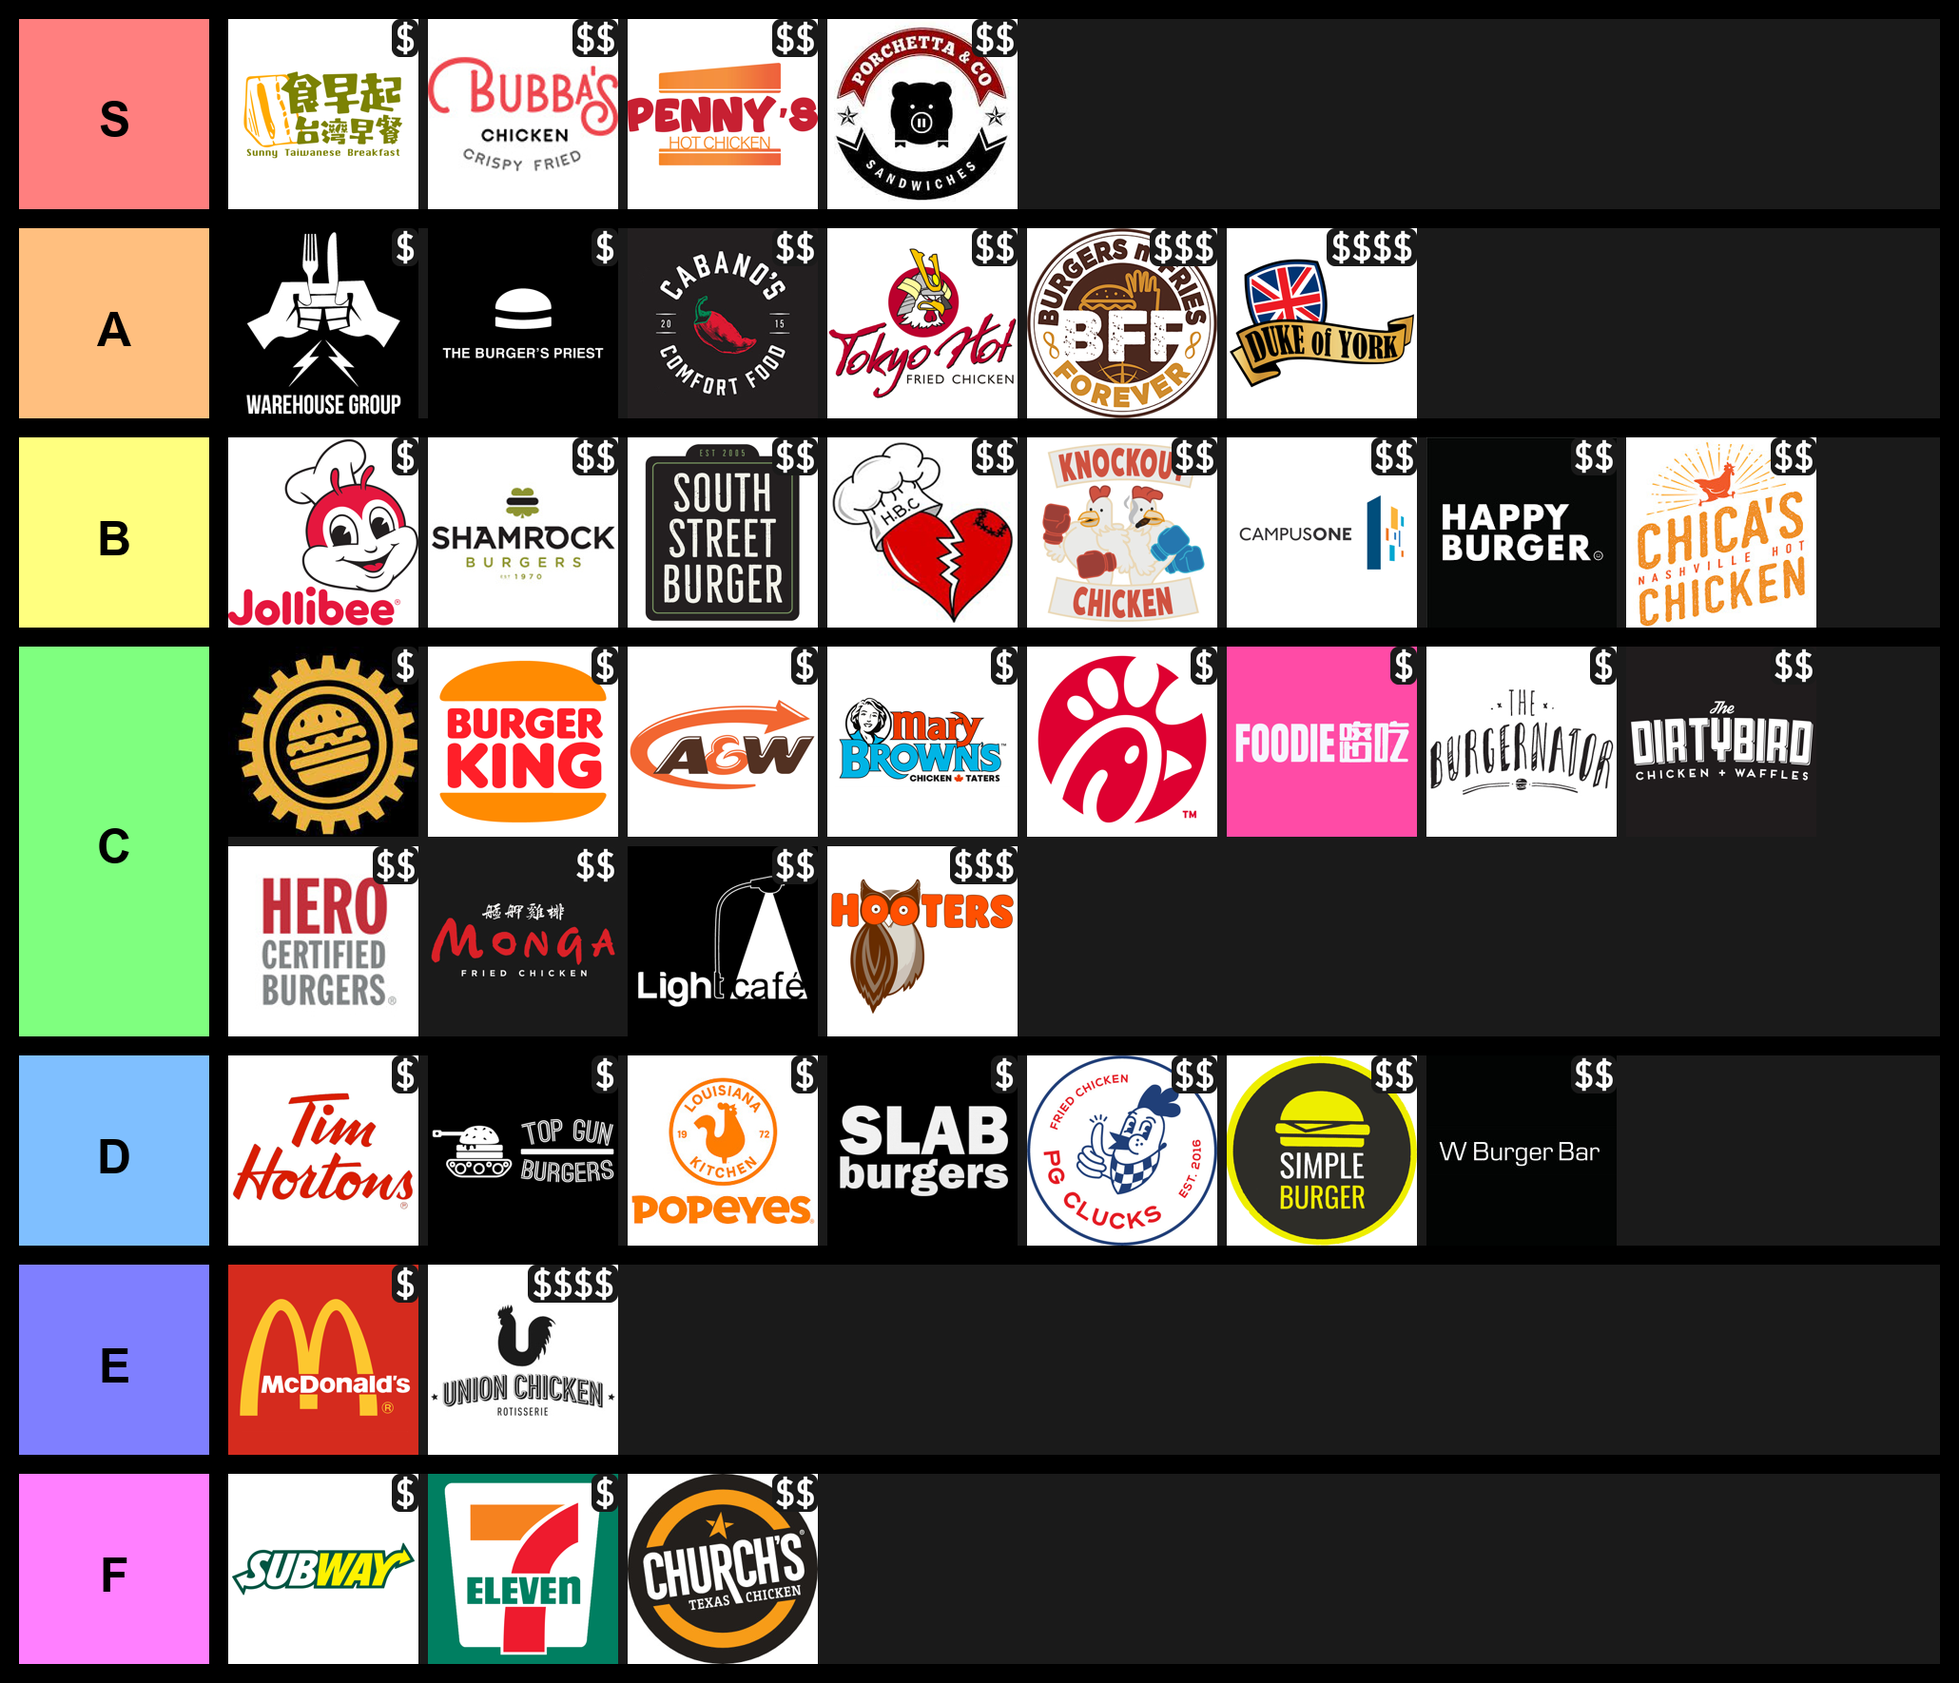
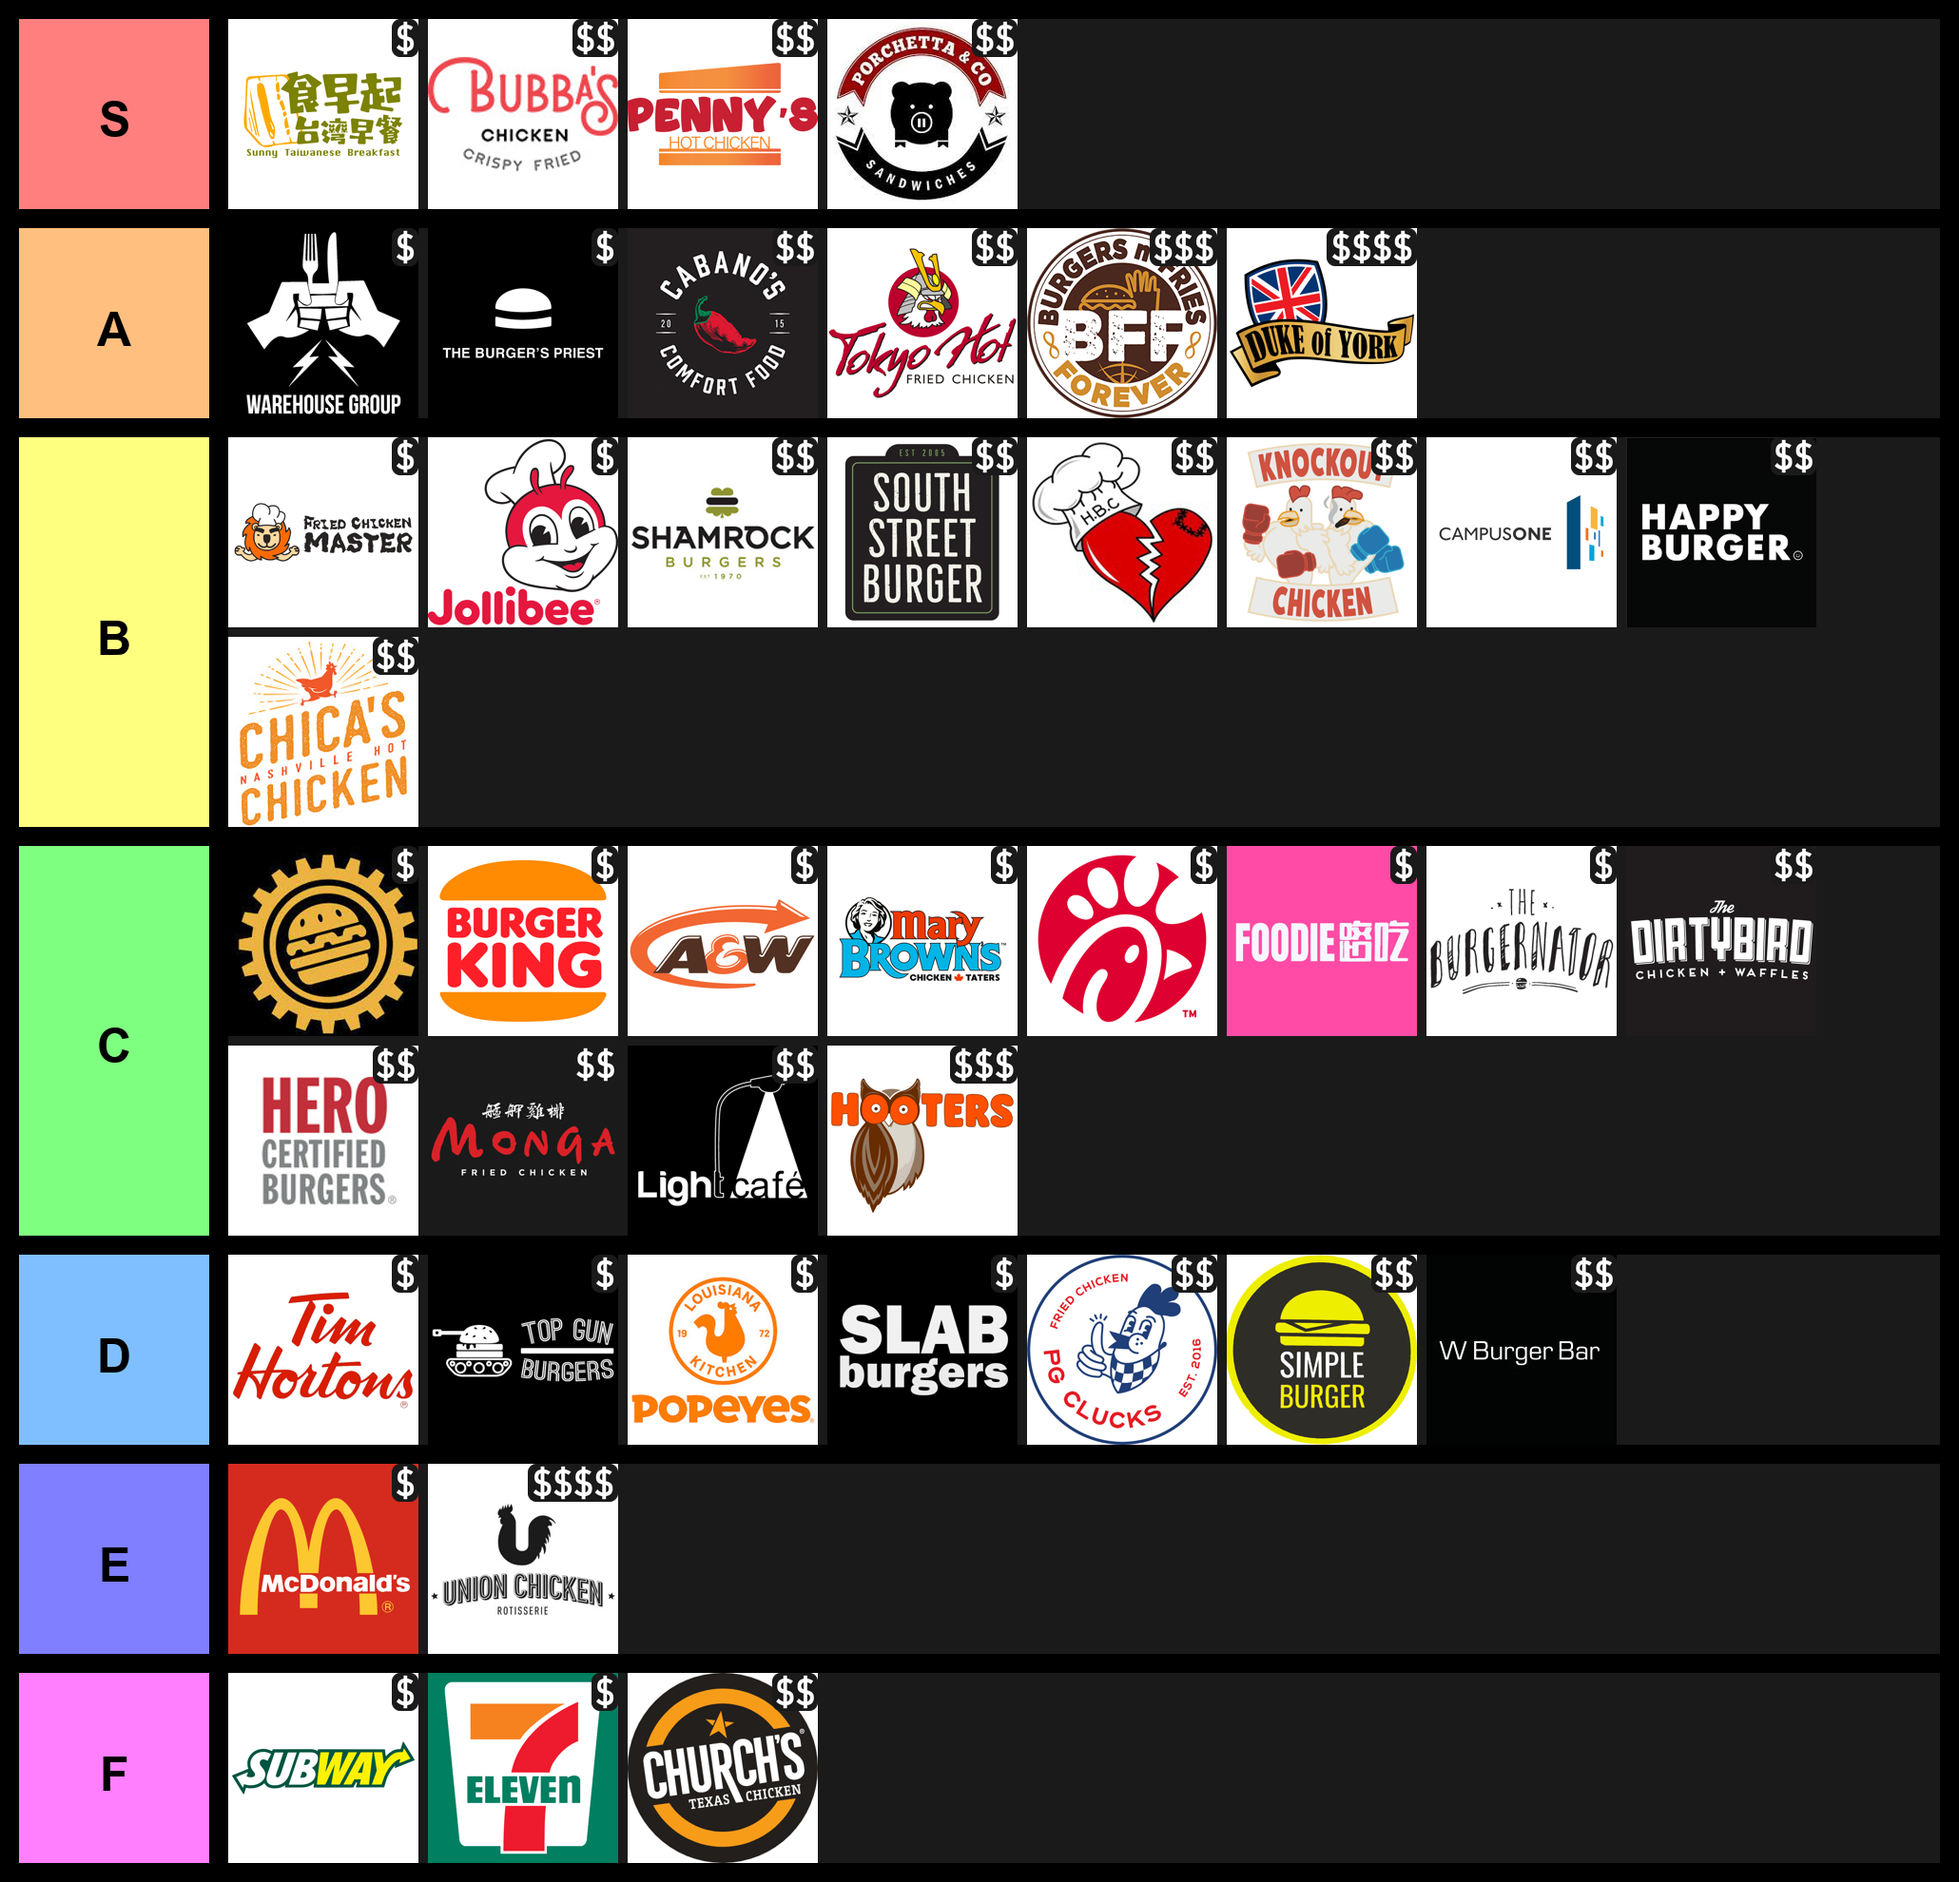
Added Fried Chicken Master

diff --git a/tierlist.py b/tierlist.py
@@ -15,7 +15,7 @@ BACKGROUND_COLOUR = (26, 26, 26)
 tier_num_rows = {
     'S': 1,
     'A': 1,
-    'B': 1,
+    'B': 2,
     'C': 2,
     'D': 1,
     'E': 1,
